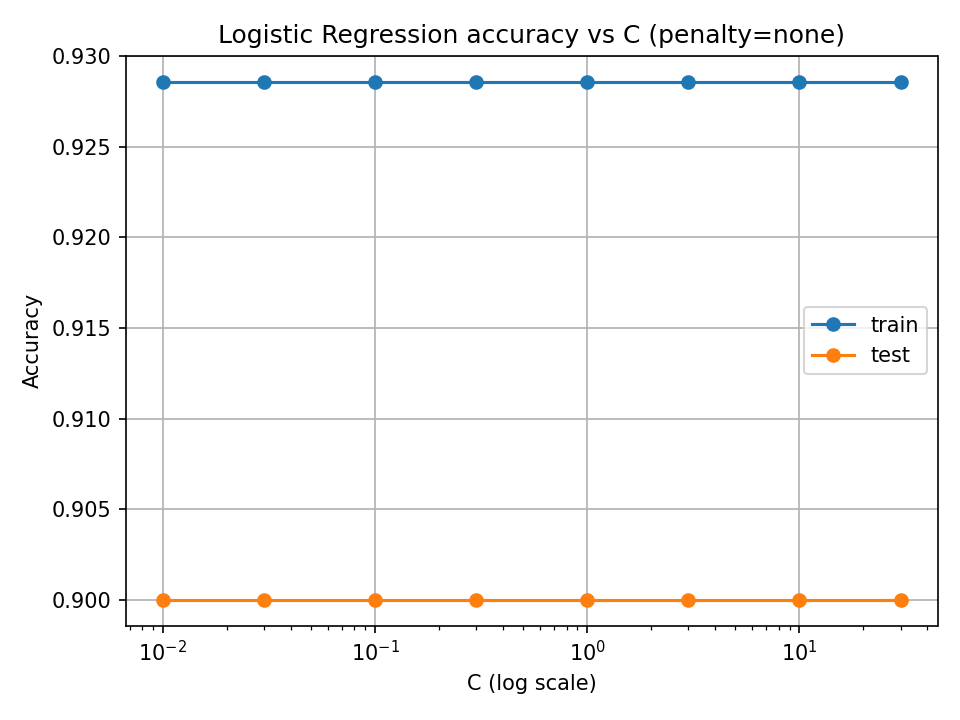
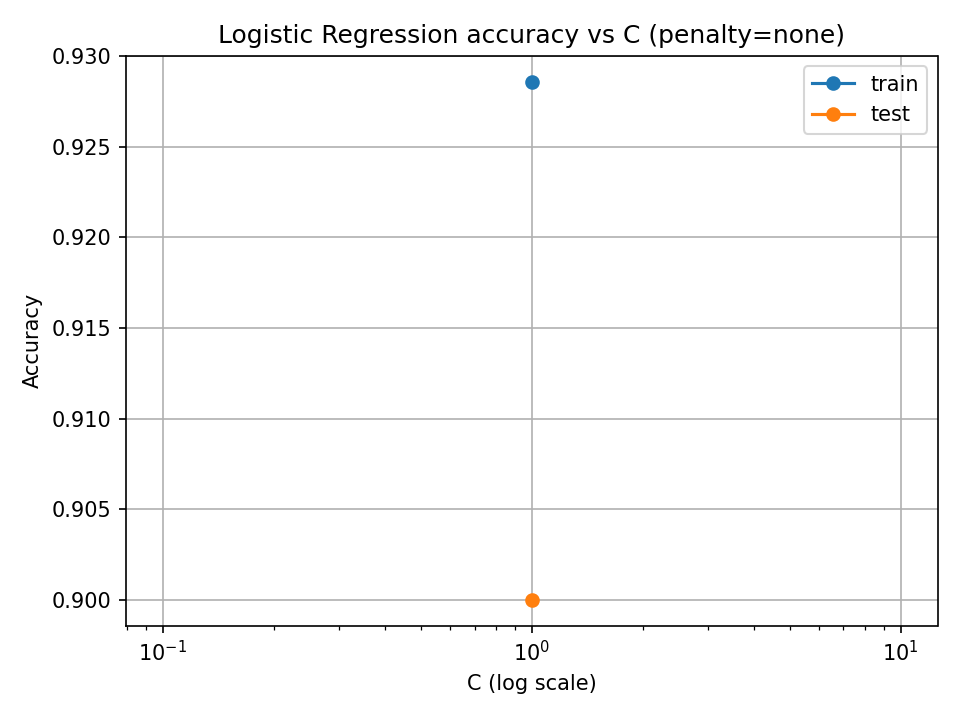
reworked grid helper and split demos

diff --git a/ct4101_assignment.py b/ct4101_assignment.py
@@ -49,29 +49,30 @@ def evaluate_logreg_grid(
     Note: penalty=None (recorded as 'none') works with lbfgs/newton-cg/sag/saga (sklearn>=0.22).
     """
     rows = []
-    for C, pen in itertools.product(C_list, penalty_list):
-        clf = LogisticRegression(
-            penalty=pen,
-            C=C,
-            solver=solver,
-            max_iter=2000,
-            random_state=random_state
-        )
-        clf.fit(Xtr, ytr)
-        yhat_tr = clf.predict(Xtr)
-        yhat_te = clf.predict(Xte)
-        rows.append(
-            {
-                "C": float(C),
-                "penalty": ("none" if pen is None else pen),
-                "train_acc": accuracy_score(ytr, yhat_tr),
-                "test_acc": accuracy_score(yte, yhat_te)
-            }
-        )
+    for pen in penalty_list:
+        c_values = (1.0,) if pen is None else C_list
+        for C in c_values:
+            clf = LogisticRegression(
+                penalty=pen,
+                C=C,
+                solver=solver,
+                max_iter=2000,
+                random_state=random_state
+            )
+            clf.fit(Xtr, ytr)
+            yhat_tr = clf.predict(Xtr)
+            yhat_te = clf.predict(Xte)
+            rows.append(
+                {
+                    "C": float(C),
+                    "penalty": "none" if pen is None else pen,
+                    "train_acc": accuracy_score(ytr, yhat_tr),
+                    "test_acc": accuracy_score(yte, yhat_te)
+                }
+            )
 
     df = pd.DataFrame(rows).sort_values(["penalty", "C"]).reset_index(drop=True)
     return df
-
 def plot_C_vs_acc(df: pd.DataFrame, penalty: str, save_path: Path | None = None) -> None:
     sub = df[df["penalty"] == penalty]
     xs = sub["C"].values.astype(float)
@@ -89,7 +90,8 @@ def plot_C_vs_acc(df: pd.DataFrame, penalty: str, save_path: Path | None = None)
         plt.savefig(save_path, dpi=150)
     plt.show()
 
-def run_default_demo() -> None:
+def run_default_demo() -> dict[str, float | str]:
+    """Train once with sklearn defaults (plus higher max_iter) and report metrics."""
     train_df, test_df = load_data(TRAIN_PATH, TEST_PATH)
     X_train, y_train = split_X_y(train_df)
     X_test, y_test = split_X_y(test_df)
@@ -102,22 +104,30 @@ def run_default_demo() -> None:
     y_pred_te = clf.predict(Xte)
     acc_tr = accuracy_score(y_train, y_pred_tr)
     acc_te = accuracy_score(y_test, y_pred_te)
-    print(f"[Default] Train acc = {acc_tr:.4f} | Test acc = {acc_te:.4f}")
 
-    # Run a quick grid search for comparison and visualization
-    results = evaluate_logreg_grid(Xtr, y_train, Xte, y_test)
-    plot_C_vs_acc(results, penalty="l2")
-    plot_C_vs_acc(results, penalty="none")
+    print("[Default Model]")
+    print(f"Solver: {clf.solver} | Penalty: {clf.penalty} | C: {clf.C}")
+    print(f"Train accuracy: {acc_tr:.4f}")
+    print(f"Test accuracy:  {acc_te:.4f}")
 
-    best_row = results.loc[results["test_acc"].idxmax()]
-    print("\n[Best on test]")
-    print(best_row)
-
-def run_tuning_demo() -> None:
+    return {
+        "solver": clf.solver,
+        "penalty": clf.penalty,
+        "C": float(clf.C),
+        "train_acc": float(acc_tr),
+        "test_acc": float(acc_te),
+    }
+def run_tuning_demo(baseline: dict[str, float | str]) -> None:
     train_df, test_df = load_data(TRAIN_PATH, TEST_PATH)
     X_train, y_train = split_X_y(train_df)
     X_test, y_test = split_X_y(test_df)
     Xtr, Xte, _ = scale_train_test(X_train, X_test)
+
+    print("\n[Tuning] Manual grid search over C and penalty")
+    print(
+        "Baseline (default sklearn) -> "
+        f"penalty={baseline['penalty']}, C={baseline['C']:.2f}, test_acc={baseline['test_acc']:.4f}"
+    )
 
     results = evaluate_logreg_grid(
         Xtr,
@@ -131,26 +141,19 @@ def run_tuning_demo() -> None:
     )
     print(results)
 
-    # Save table for report
     results.to_csv("logreg_results.csv", index=False)
 
-    # Plot & save
     plot_C_vs_acc(results, penalty="l2", save_path=Path("logreg_C_vs_acc_l2.png"))
     plot_C_vs_acc(results, penalty="none", save_path=Path("logreg_C_vs_acc_none.png"))
 
-    # Best row
     best_row = results.loc[results["test_acc"].idxmax()]
-    print("\n[Best on test]")
+    print("\n[Best grid-search model]")
     print(best_row)
-
-
 def main() -> None:
     print("=== Logistic Regression: Default Parameters ===")
-    run_default_demo()
+    baseline = run_default_demo()
 
     print("\n=== Logistic Regression: Manual Hyperparameter Tuning ===")
-    run_tuning_demo()
-
-
+    run_tuning_demo(baseline)
 if __name__ == "__main__":
     main()
